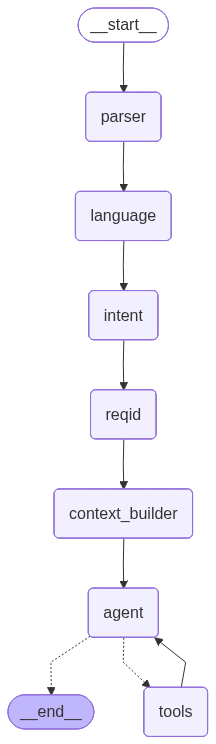
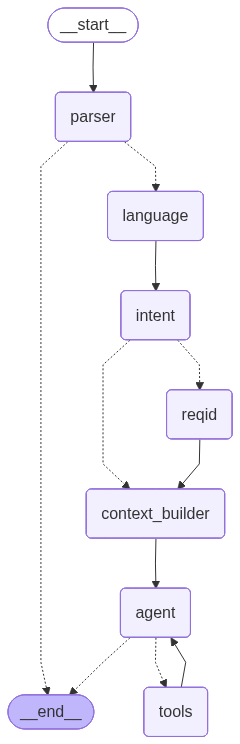
enhanced workflow

diff --git a/agent/nodes/preprocessing/parse_node.py b/agent/nodes/preprocessing/parse_node.py
@@ -18,8 +18,14 @@ from langchain.tools import tool
 import re
 import logging
 from models.shipment import Message
-from services.shipment.shipment_service import push_message_log
+from services.shipment.shipment_service import (
+    push_message_log,
+    find_by_any_message_id,
+    find_by_request_id
+    )
 from datetime import datetime
+from services.email.email_sender import send_email
+from services.email.email_template import build_email
 
 
 logger = logging.getLogger(__name__)
@@ -284,7 +290,6 @@ async def parser_node(state: AgentState) -> AgentState:
 
         # Strategy 1: Lookup by In-Reply-To header
         if parent_message_id:
-            from services.shipment.shipment_service import find_by_any_message_id
             shipment = await find_by_any_message_id(parent_message_id)
 
             if shipment:
@@ -342,8 +347,7 @@ async def parser_node(state: AgentState) -> AgentState:
             if match:
                 request_id = match.group(0)
                 logger.info(f"[parse_node] ✅ Extracted request_id from subject: {request_id}")
-
-                from services.shipment.shipment_service import find_by_request_id
+                
                 shipment = await find_by_request_id(request_id)
 
                 if shipment:
@@ -378,8 +382,7 @@ async def parser_node(state: AgentState) -> AgentState:
             if match:
                 request_id = match.group(0)
                 logger.info(f"[parse_node] ✅ Extracted request_id from body: {request_id}")
-
-                from services.shipment.shipment_service import find_by_request_id
+                
                 shipment = await find_by_request_id(request_id)
 
                 if shipment:
@@ -417,9 +420,8 @@ async def parser_node(state: AgentState) -> AgentState:
             in_reply_to_missing = not parent_message_id or parent_message_id == ""
 
             if request_id_missing and in_reply_to_missing:
-                from services.email.email_sender import send_email
-                from services.email.email_template import build_email
-
+                # Send guidance email to operator
+                
                 operator_guidance_html = build_email(
                     email_type="missing_info",
                     customer_name="Operator",
@@ -433,14 +435,23 @@ async def parser_node(state: AgentState) -> AgentState:
                 )
 
                 msg_id = send_email(
-                    to=settings.OPERATOR_EMAIL,
+                    to=customer_email,  # Send to the operator who sent the email
                     subject="Request ID Required - Cannot Process Pricing",
                     body_html=operator_guidance_html,
                     request_id="UNKNOWN"
                 )
 
                 logger.info(f"[parse_node] Guidance email sent to operator | msg_id={msg_id}")
+                logger.info(f"[parse_node] Stopping workflow - operator email cannot be matched")
+                
+                # Set flag to stop workflow and update minimal state
                 state["operator_guidance_sent"] = True
+                state["is_operator"] = True  
+                state["customer_email"] = customer_email
+                state["subject"] = subject
+                state["body"] = updated_body
+                
+                return state
 
     # Update state — only relevant attachments saved
     state.update({

diff --git a/agent/workflow.py b/agent/workflow.py
@@ -146,6 +146,7 @@ def route_after_intent(state: AgentState) -> str:
     request_id = state.get("request_id", "")
     conversation_id = state.get("conversation_id", "")
     customer_email = state.get("customer_email", "")
+    is_operator = state.get("is_operator", False)
     
     # Check for all intents EXCEPT new_shipment_request
     if intent != "new_request":
@@ -156,9 +157,12 @@ def route_after_intent(state: AgentState) -> str:
         if request_id_missing and conversation_id_missing:
             logger.warning(f"[workflow] Intent '{intent}' but no context (req_id + conversation_id both null)")
             
-            # Send guidance email
+            # Skip sending email if this is an operator (already handled in parse_node)
+            if is_operator:
+                logger.info(f"[workflow] Operator email without context - already handled in parse_node, stopping workflow")
+                return END
             
-            
+            # Send guidance email to customer
             guidance_html = build_email(
                 email_type="missing_info",
                 customer_name=customer_email,
@@ -192,6 +196,12 @@ def route_after_intent(state: AgentState) -> str:
         return "context_builder"
     elif intent == "operator_pricing":
         logger.info("[workflow] Operator pricing detected - routing directly to context_builder (skipping reqid)")
+        return "context_builder"
+    elif intent == "confirmation":
+        logger.info("[workflow] confirmation detected- routing directly to context_builder (skipping reqid)")
+        return "context_builder"
+    elif intent == "cancellation":
+        logger.info("[workflow] cancellation detected- routing directly to context_builder (skipping reqid)")
         return "context_builder"
     else:
         # new_request, missing_information, status_inquiry, confirmation, cancellation

diff --git a/models/shipment.py b/models/shipment.py
@@ -108,6 +108,5 @@ class Shipment(BaseModel):
     attachments: List[Attachment] = Field(default_factory=list)
     messages: List[Message] = Field(default_factory=list)
     message_ids: List[str] = Field(default_factory=list)
-    final_document: Optional[str] = None
     created_at: datetime = Field(default_factory=datetime.utcnow)
     updated_at: datetime = Field(default_factory=datetime.utcnow)

diff --git a/utils/poller.py b/utils/poller.py
@@ -52,7 +52,7 @@ async def job():
 async def start_poller():
     try:
         if not scheduler.get_jobs():
-            scheduler.add_job(job, "interval", minutes=1)
+            scheduler.add_job(job, "interval", minutes=5)
 
         scheduler.start()
         logger.info("🚀 Gmail Poller started")
